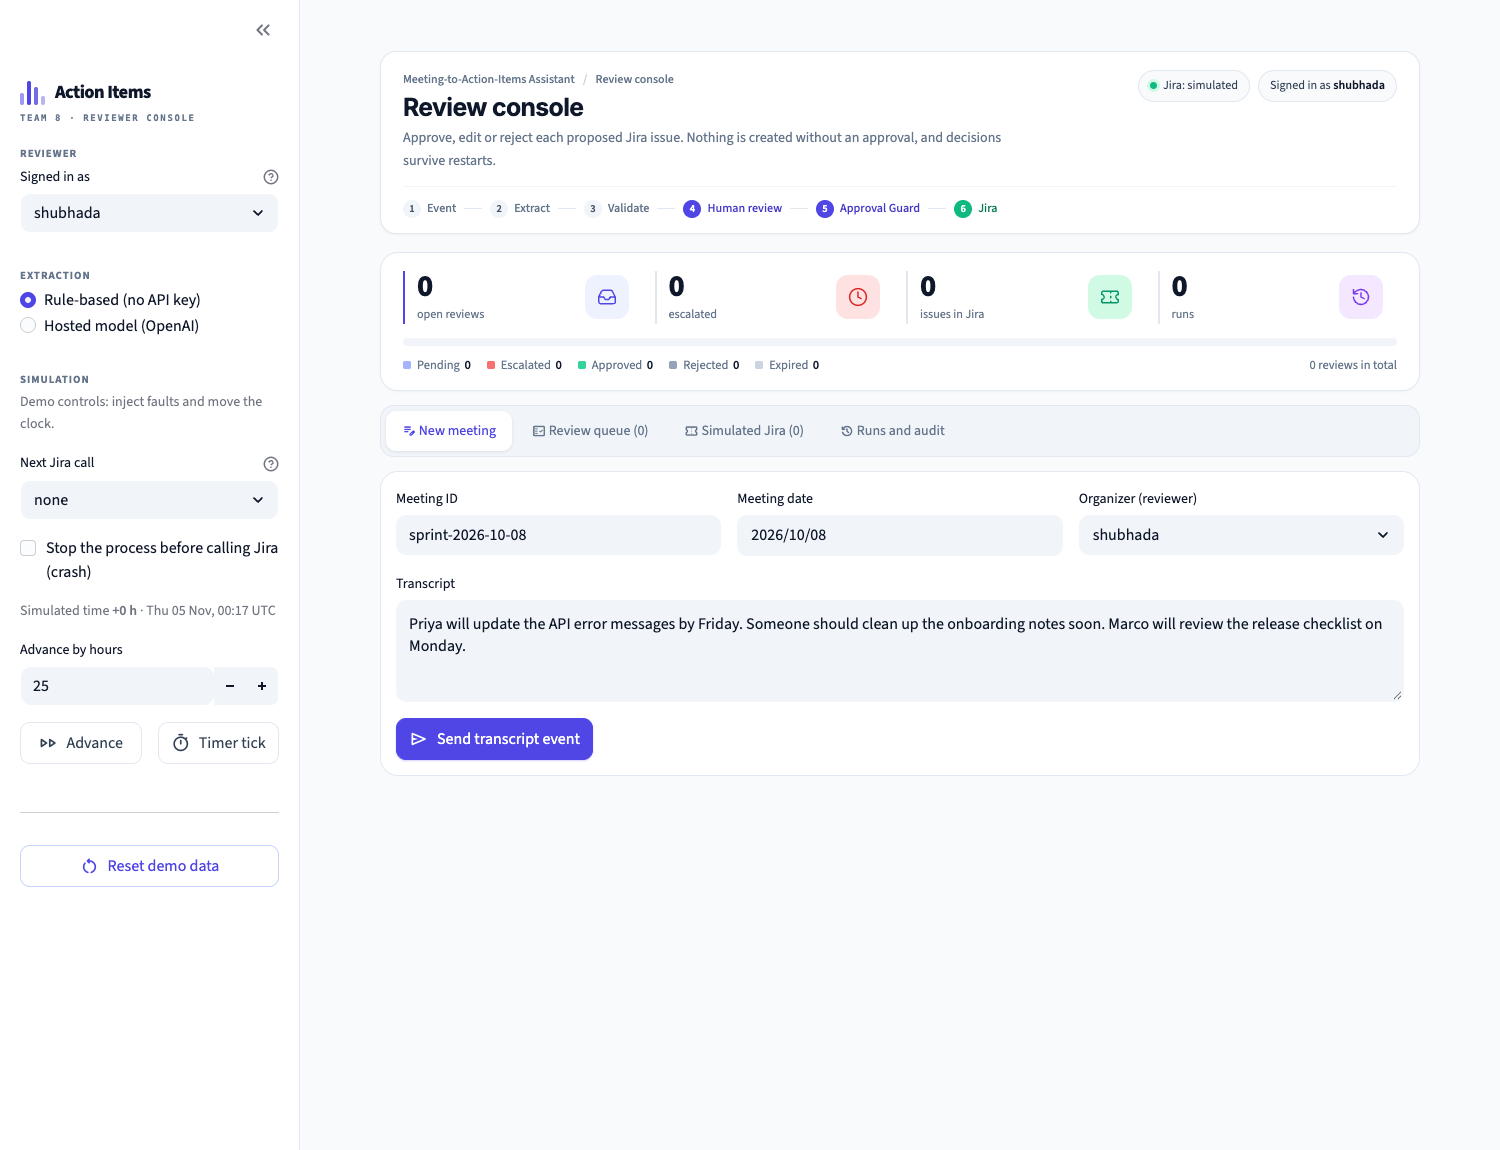
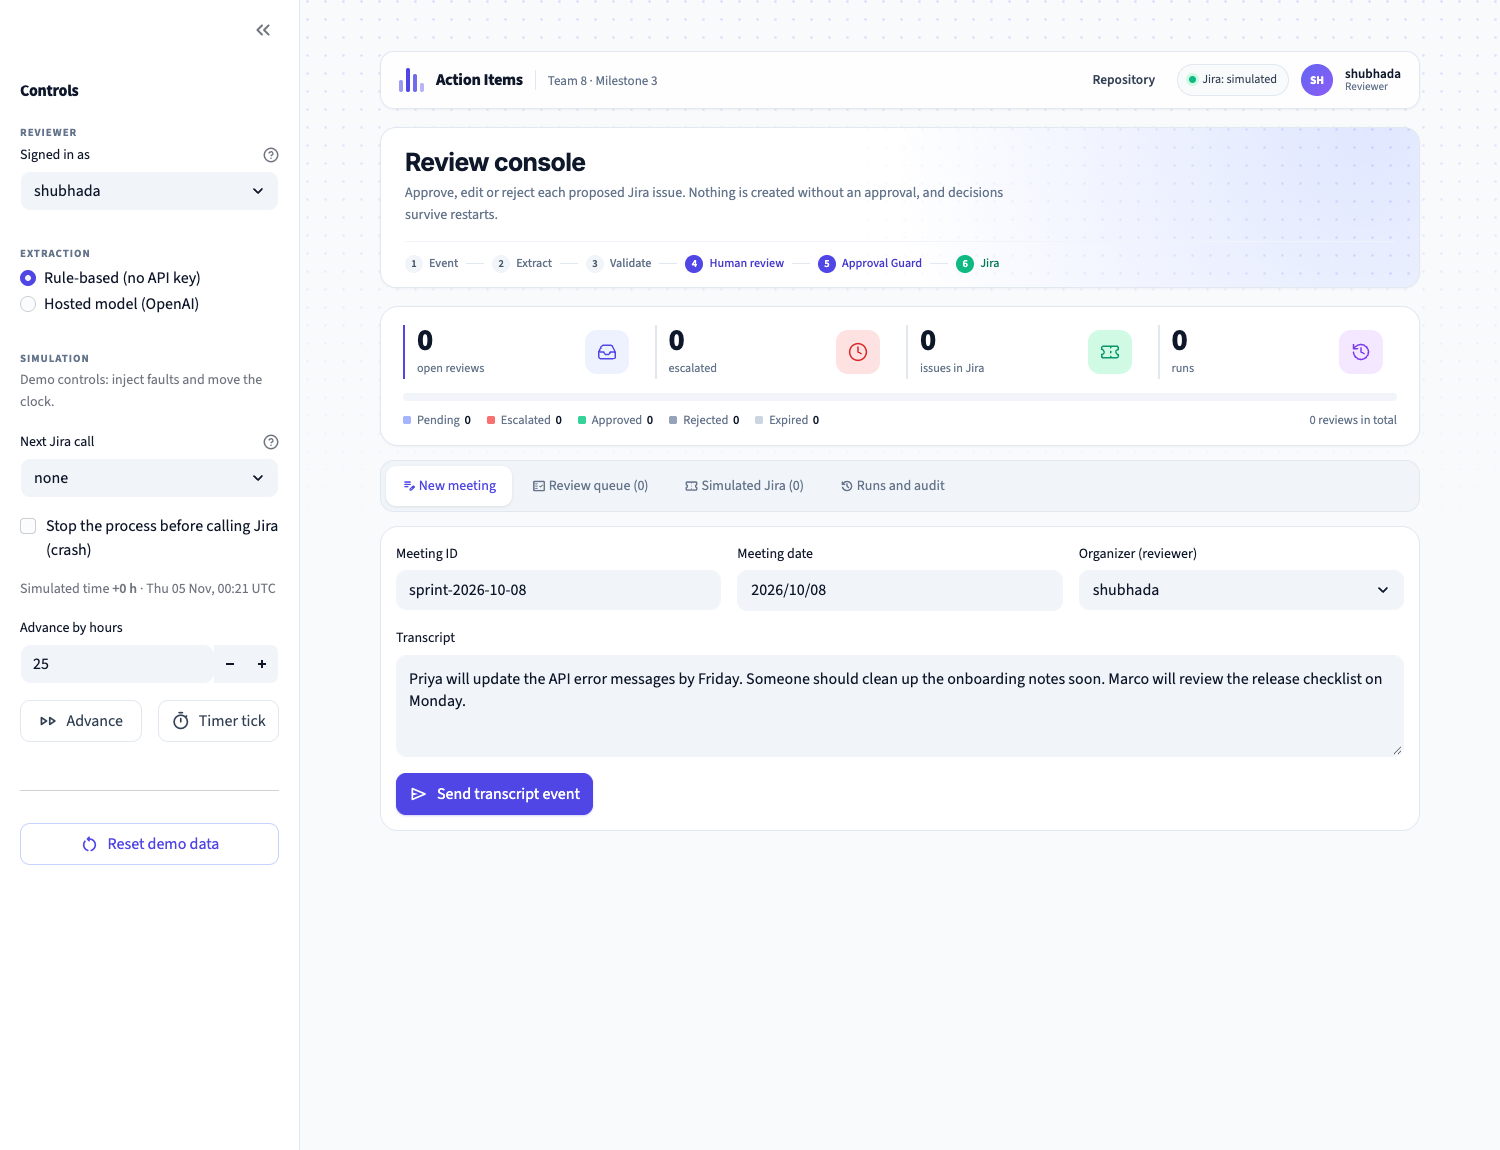
Add a top nav bar and the faded dot background
Nav bar with brand, team and milestone, a repository link, the Jira
environment status and the signed-in reviewer (initials and role). The
header card keeps the title and pipeline and gets the faded dots and
indigo glow back; a faint dot grid also fades across the top of the
page. The sidebar is titled Controls. Behaviour unchanged; 40 tests pass.

diff --git a/app.py b/app.py
@@ -113,12 +113,37 @@ table.issues code {background: var(--subtle); color: #475569; border-radius: 6px
 [data-testid="stSidebar"] [data-baseweb="input"] input, [data-testid="stSidebar"] [data-testid="stNumberInputContainer"] button
     {background: var(--subtle) !important;}
 
+/* nav bar */
+.nav {display:flex; align-items:center; justify-content:space-between; gap: 16px; height: 58px; padding: 0 18px; margin-bottom: 18px;
+      background: rgba(255,255,255,.82); backdrop-filter: blur(10px); -webkit-backdrop-filter: blur(10px);
+      border: 1px solid var(--line); border-radius: 14px; box-shadow: 0 1px 2px rgba(15,23,42,.04);}
+.nav-l, .nav-r {display:flex; align-items:center; gap: 12px;}
+.nav-brand {font-weight: 800; font-size: 1.02rem; color: var(--ink); letter-spacing: -.02em;}
+.nav-sep {width: 1px; height: 20px; background: var(--line);}
+.nav-team {font-size: .82rem; color: var(--muted);}
+.nav-link {font-size: .84rem; font-weight: 600; color: #334155 !important; text-decoration: none !important; padding: 6px 10px; border-radius: 8px;}
+.nav-link:hover {background: var(--subtle); color: var(--primary) !important;}
+.avatar {width: 32px; height: 32px; border-radius: 50%; display:grid; place-items:center; font-size: .72rem; font-weight: 700;
+         color: #fff; background: linear-gradient(135deg, #6366F1, #8B5CF6);}
+.nav-user {display:flex; flex-direction:column; line-height: 1.15; font-size: .82rem; color: var(--ink);}
+.nav-user small {font-size: .7rem; color: var(--muted);}
+.side-title {font-size: 1rem; font-weight: 800; color: var(--ink); letter-spacing: -.02em; margin: 2px 0 2px;}
+/* faded dot grid behind the top of the page */
+[data-testid="stAppViewContainer"]::before {content:''; position: absolute; inset: 0 0 auto 0; height: 560px; pointer-events: none;
+    background: DOTS; opacity: .22; z-index: 0;
+    -webkit-mask-image: linear-gradient(180deg, #000 0%, rgba(0,0,0,.5) 45%, transparent 100%);
+    mask-image: linear-gradient(180deg, #000 0%, rgba(0,0,0,.5) 45%, transparent 100%);}
+[data-testid="stMain"] {position: relative; z-index: 1;}
+
 /* console header */
-.console {background: var(--card); border: 1px solid var(--line); border-radius: 16px; padding: 18px 22px 14px; margin-bottom: 14px;
-          box-shadow: 0 1px 2px rgba(15,23,42,.04);}
+.console {position: relative; isolation: isolate; overflow: hidden; border-radius: 16px; padding: 20px 24px 14px; margin-bottom: 14px;
+          background: radial-gradient(circle at 95% 0%, #E0E7FF 0, rgba(224,231,255,0) 48%), var(--card);
+          border: 1px solid var(--line); box-shadow: 0 1px 2px rgba(15,23,42,.04);}
+.console:before {content:''; position:absolute; inset:0; z-index:-1; background: DOTS; opacity:.22;
+                 -webkit-mask-image: linear-gradient(270deg, #000, transparent 60%); mask-image: linear-gradient(270deg, #000, transparent 60%);}
 .console-top {display:flex; justify-content:space-between; align-items:flex-start; gap: 16px;}
 .crumb {font-size: .75rem; color: var(--muted); font-weight: 500;} .crumb span {margin: 0 6px; color: #CBD5E1;}
-.console-title {font-size: 1.55rem !important; margin: 4px 0 4px !important; padding: 0 !important; color: var(--ink);}
+.console-title {font-size: 1.55rem !important; margin: 0 0 4px !important; padding: 0 !important; color: var(--ink);}
 .console-sub {font-size: .88rem; color: var(--muted); max-width: 640px;}
 .chips {display:flex; gap: 8px; flex-wrap: wrap; justify-content:flex-end;}
 .chip {font-size: .76rem; color: #334155; background: var(--bg); border: 1px solid var(--line); border-radius: 999px; padding: 5px 11px;
@@ -307,9 +332,7 @@ if recovered:
 
 # ------------------------------------------------------------------ sidebar
 with st.sidebar:
-    st.markdown('<div class="brand"><div class="brand-mark"><i></i><i></i><i></i><i></i></div>'
-                '<div class="brand-name">Action Items</div></div>'
-                '<div class="brand-sub">TEAM 8 · REVIEWER CONSOLE</div>', unsafe_allow_html=True)
+    st.markdown('<div class="side-title">Controls</div>', unsafe_allow_html=True)
     side_heading("Reviewer")
     reviewer = st.selectbox("Signed in as", PEOPLE, index=PEOPLE.index("shubhada"), key="reviewer",
                             help=f"The organizer reviews first; {PROJECT_LEAD} (project lead) may decide after escalation.")
@@ -343,16 +366,23 @@ with st.sidebar:
         st.rerun()
 
 # ------------------------------------------------------------------ header
+REPO = "https://github.com/Tejasvaidya10/AI-Meeting-to-Action-Items-Assistant/tree/shubhada/m3-hitl-events"
+role = "Project lead" if reviewer == PROJECT_LEAD else "Reviewer"
+st.markdown(
+    '<div class="nav"><div class="nav-l"><div class="brand-mark"><i></i><i></i><i></i><i></i></div>'
+    '<span class="nav-brand">Action Items</span><span class="nav-sep"></span><span class="nav-team">Team 8 · Milestone 3</span></div>'
+    f'<div class="nav-r"><a class="nav-link" href="{REPO}" target="_blank">Repository</a>'
+    '<span class="chip"><i class="live"></i>Jira: simulated</span>'
+    f'<span class="avatar">{html.escape(reviewer[:2].upper())}</span>'
+    f'<span class="nav-user"><b>{html.escape(reviewer)}</b><small>{role}</small></span></div></div>',
+    unsafe_allow_html=True)
+
 steps = [("Event", ""), ("Extract", ""), ("Validate", ""), ("Human review", "human"), ("Approval Guard", "human"),
          ("Jira", "jira")]
 st.markdown(
-    '<div class="console"><div class="console-top"><div>'
-    '<div class="crumb">Meeting-to-Action-Items Assistant <span>/</span> Review console</div>'
-    '<h1 class="console-title">Review console</h1>'
+    '<div class="console"><h1 class="console-title">Review console</h1>'
     '<div class="console-sub">Approve, edit or reject each proposed Jira issue. Nothing is created without an approval, '
-    'and decisions survive restarts.</div></div>'
-    '<div class="chips"><span class="chip"><i class="live"></i>Jira: simulated</span>'
-    f'<span class="chip">Signed in as <b>{html.escape(reviewer)}</b></span></div></div>'
+    'and decisions survive restarts.</div>'
     '<div class="steps">' + '<span class="sep"></span>'.join(
         f'<span class="stp {kind}"><b>{n}</b>{label}</span>' for n, (label, kind) in enumerate(steps, 1)) + '</div></div>',
     unsafe_allow_html=True)
